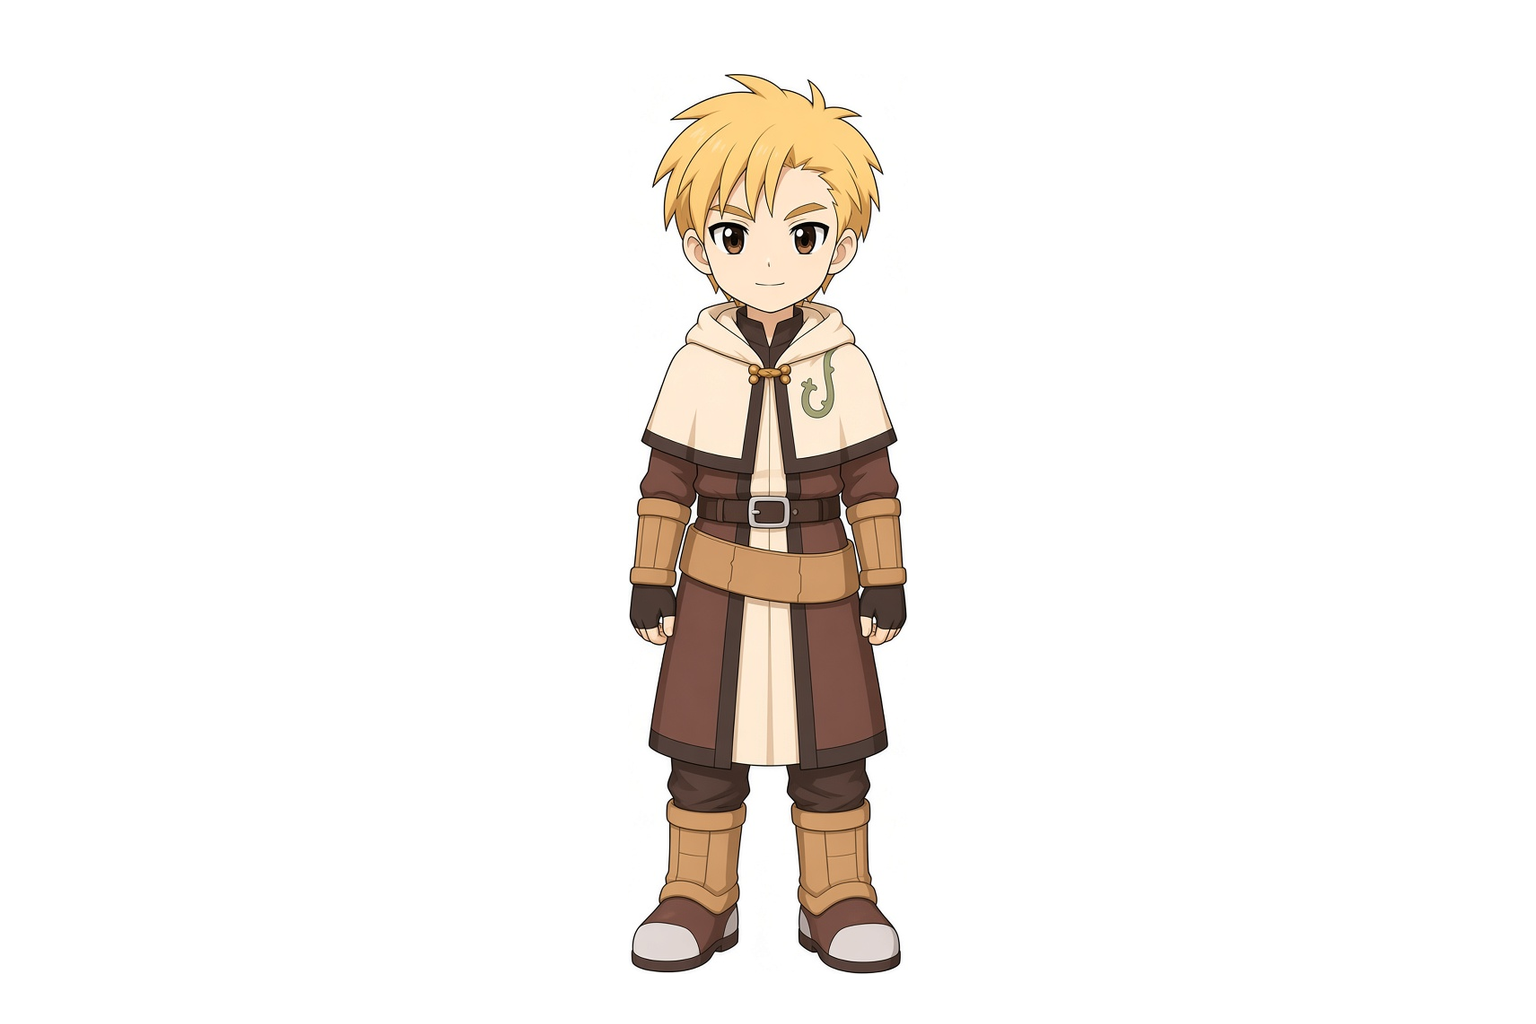
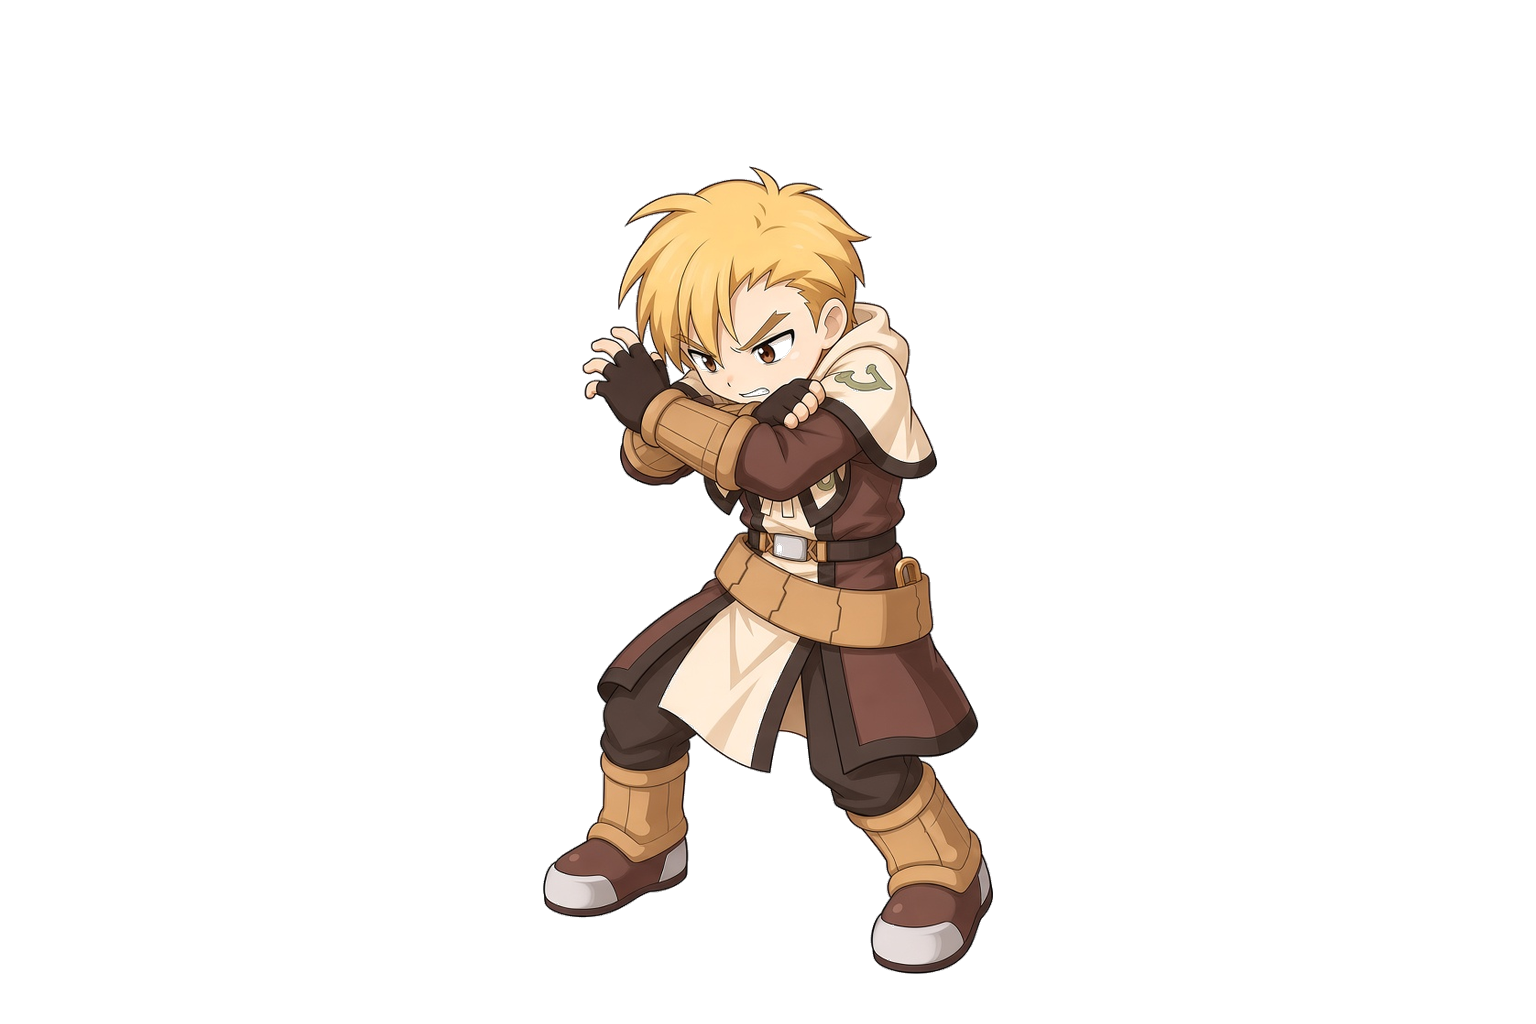
Install official warrior Character slices and bump sprite cache.
Recovered complete PNGs from the two-part official upload overwrite
south idle and attack, add atk_1/atk_2/ready_w, and alias atk_1 onto
the wired warrior_atk_s path. Cache-bust is now ?v=ui3-swordsman-2.

Changed region(s): [[0.3438, 0.0625, 0.6562, 0.9688]]

diff --git a/js/fx.js b/js/fx.js
@@ -158,7 +158,7 @@
   };
 
   FX.mob404s = [];
-  FX.SPRITE_VER = "ui3-swordsman-1";
+  FX.SPRITE_VER = "ui3-swordsman-2";
   FX.POSE_MS = { hit: 360, skill: 420, atk: 280 };
   FX.COMBAT_STANCE_MS = 2800;
   FX.WALK_FRAME_MS = 240;
